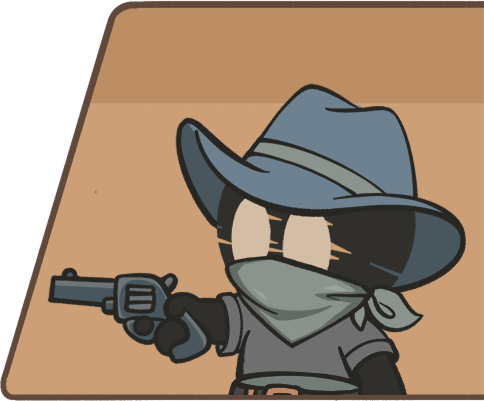
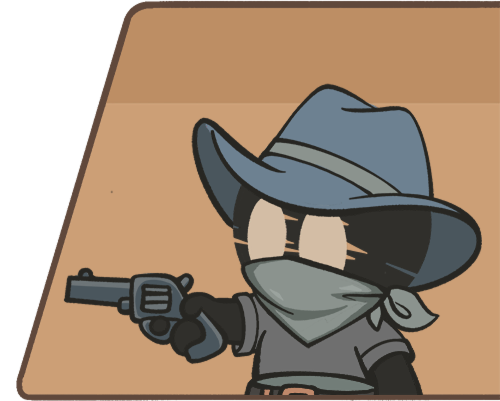
battle

diff --git a/src/components/battle/startBattleModule/style.scss b/src/components/battle/startBattleModule/style.scss
@@ -28,17 +28,19 @@
             height:40rem;
             position: relative;
             .left-user{
+                width: 100%;
                 height: 20rem;
                 background: url('../../../assets/img/battle/start/left-1.png') no-repeat left center;
-                background-size: auto 20rem;
+                background-size: auto 100%;
                 -webkit-animation: LeftUserShow 0.6s ease both;
                 animation: LeftUserShow 0.6s ease both;
                 animation-delay: 0.2s;
                 position: relative;
                 .left-user-img{
+                    width: 100%;
                     height: 20rem;
-                    background: url('../../../assets/img/battle/start/left-2.png') no-repeat left center;
-                    background-size: auto 20rem;
+                    background: url('../../../assets/img/battle/start/left-3.png') no-repeat left center;
+                    background-size: auto 100%;
                     -webkit-animation: LeftUserShoot 0.2s ease infinite;
                     animation: LeftUserShoot 0.2s ease infinite;
                     animation-delay: 0.79s;
@@ -49,17 +51,19 @@
                 }
             }
             .right-user{
+                 width: 100%;
                 height: 20rem;
                 background: url('../../../assets/img/battle/start/right-1.png') no-repeat right center;
-                background-size: auto 20rem;
+                background-size: auto 100%;
                 -webkit-animation: RightUserShow 0.6s ease both;
                 animation: RightUserShow 0.6s ease both ;
                 animation-delay: 0.2s;
                 position: relative;
                 .right-user-img{
+                    width: 100%;
                     height: 20rem;
                     background: url('../../../assets/img/battle/start/right-2.png') no-repeat right center;
-                    background-size: auto 20rem;
+                    background-size: auto 100%;
                     -webkit-animation: RightUserShoot 0.2s ease infinite;
                     animation: RightUserShoot 0.2s ease infinite;
                     animation-delay: 0.79s;
